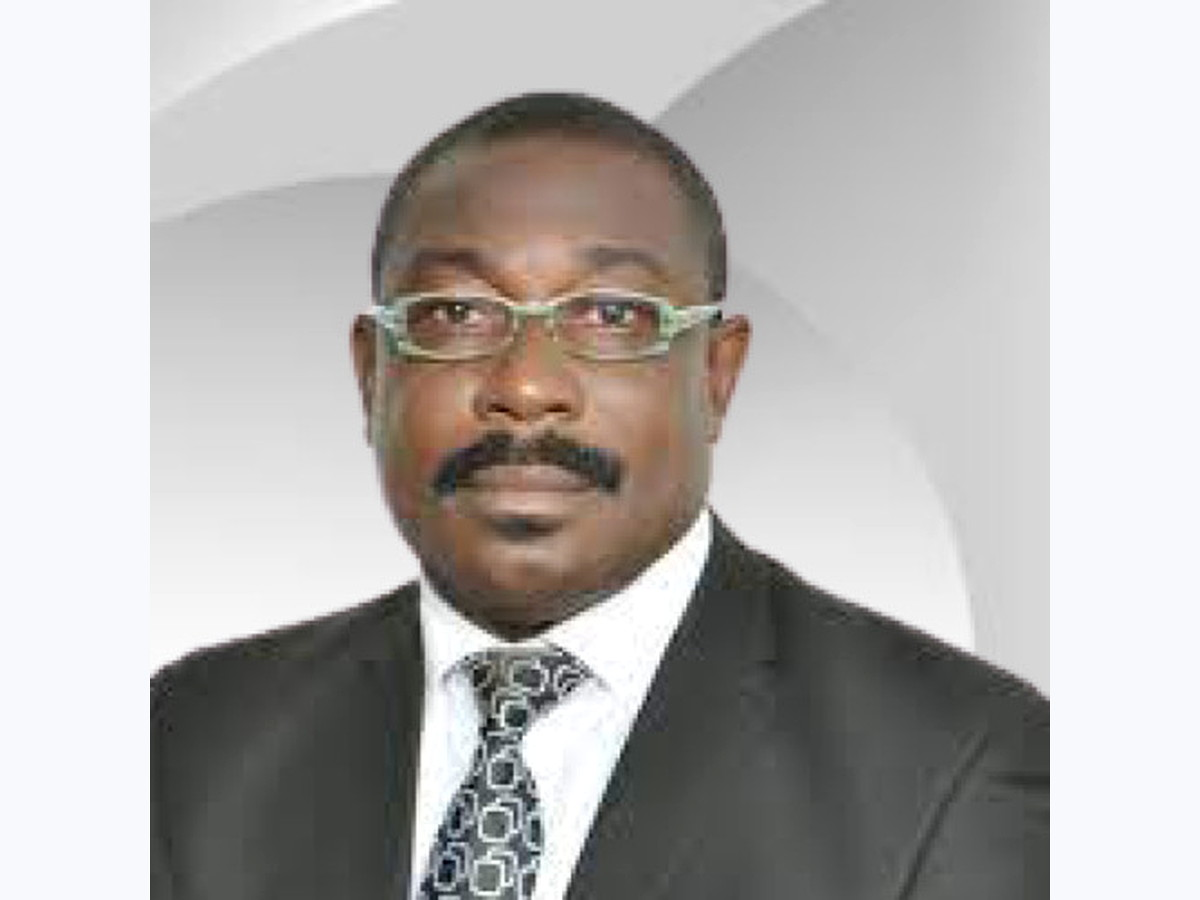
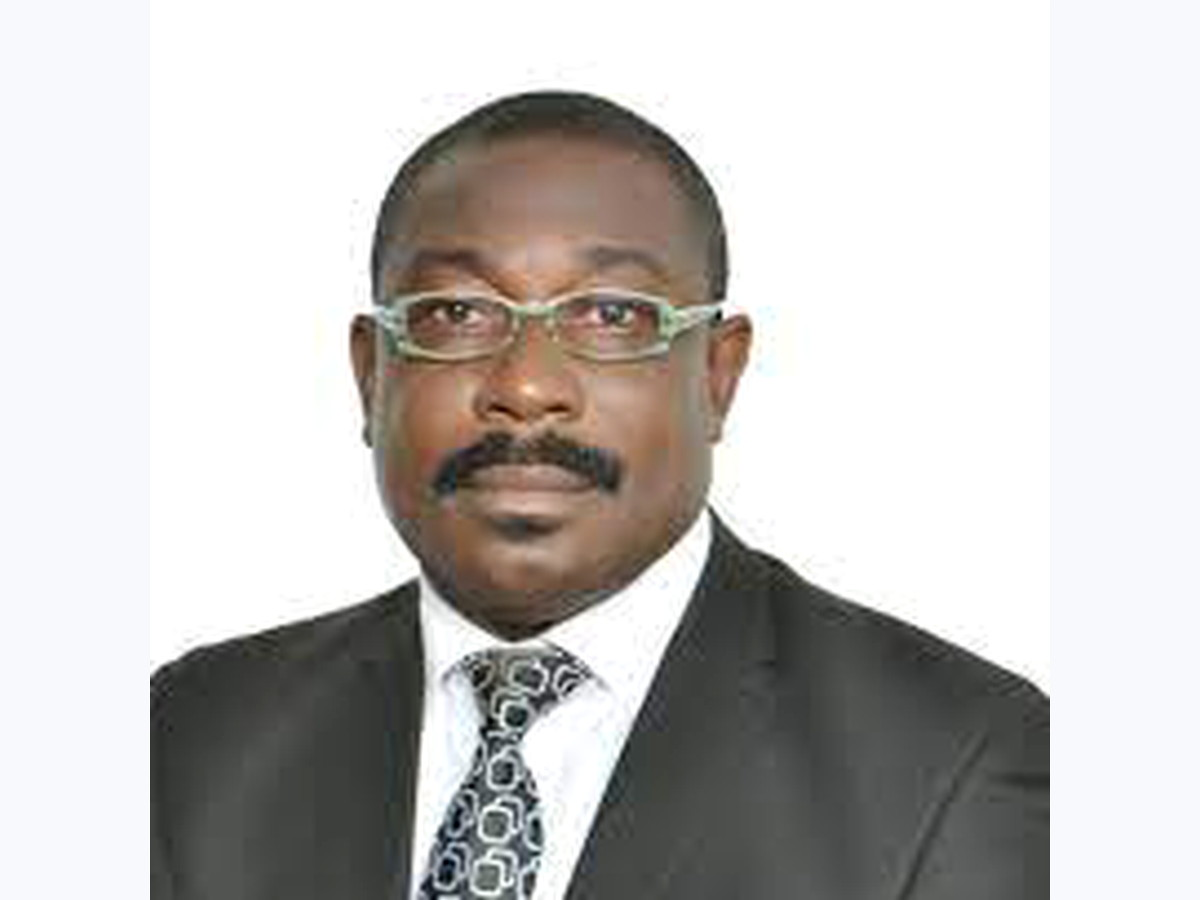
Update Professor Dadson Awunyo-Vitor board portrait

diff --git a/index.html b/index.html
@@ -2455,7 +2455,7 @@
     <div class="board-grid">
       <article class="board-card board-card--chair">
         <div class="board-card-media">
-          <img src="assets/leadership/dadson-awunyo-vitor.jpg" alt="Portrait of Professor Dadson Awunyo-Vitor" width="400" height="300" loading="lazy" decoding="async">
+          <img src="assets/leadership/dadson-awunyo-vitor.jpg?v=20260503d" alt="Portrait of Professor Dadson Awunyo-Vitor" width="400" height="300" loading="lazy" decoding="async">
         </div>
         <h3 class="team-name">Professor Dadson Awunyo-Vitor</h3>
         <p class="team-role">Board chair</p>
